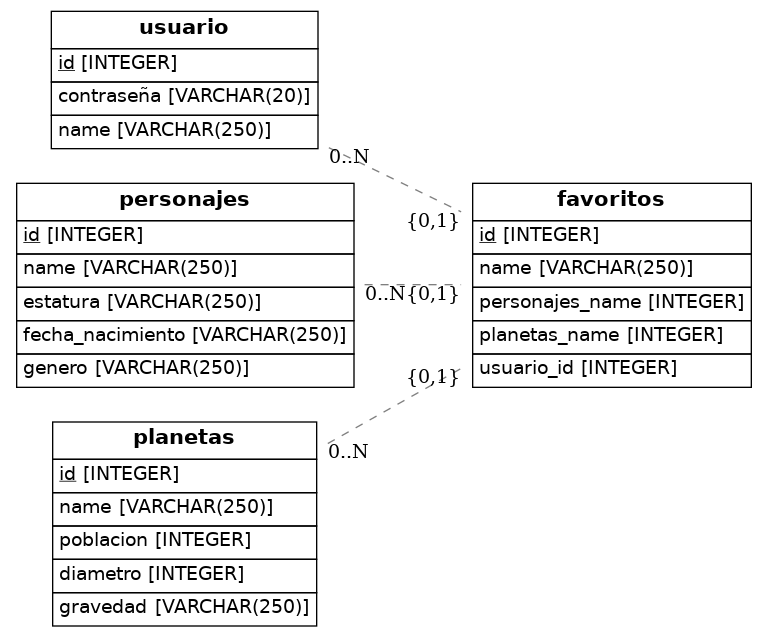
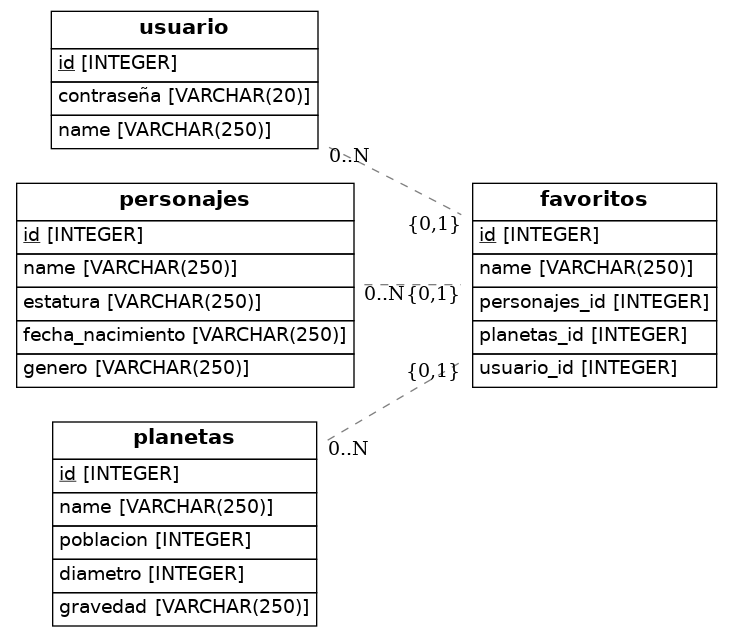
correccion foreignkey

diff --git a/src/models.py b/src/models.py
@@ -37,8 +37,8 @@ class Favoritos(Base):
     __tablename__ = 'favoritos'
     id = Column(Integer, primary_key=True)
     name = Column(String(250))
-    personajes_name = Column(Integer, ForeignKey('personajes.name'))
-    planetas_name = Column(Integer, ForeignKey('planetas.name'))
+    personajes_id = Column(Integer, ForeignKey('personajes.id'))
+    planetas_id = Column(Integer, ForeignKey('planetas.id'))
     usuario_id = Column(Integer, ForeignKey('usuario.id'))
     
 
